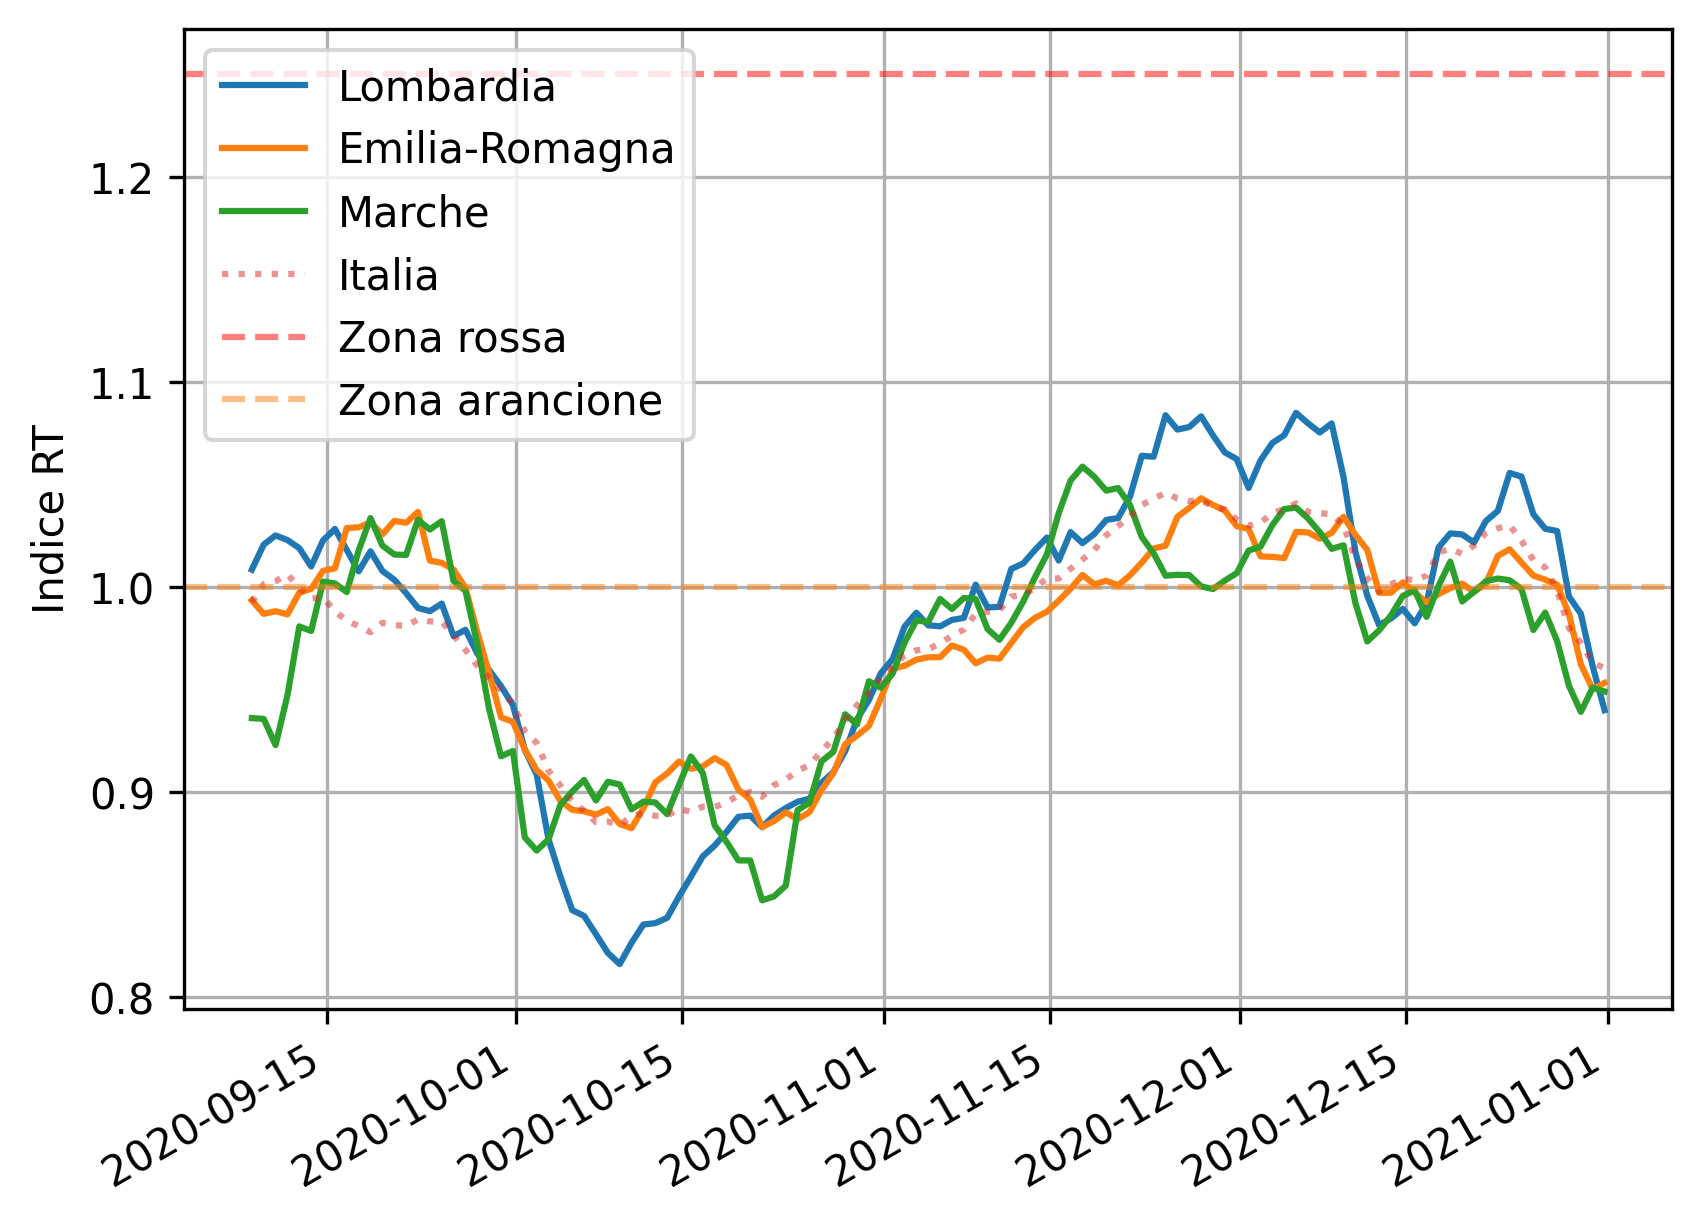
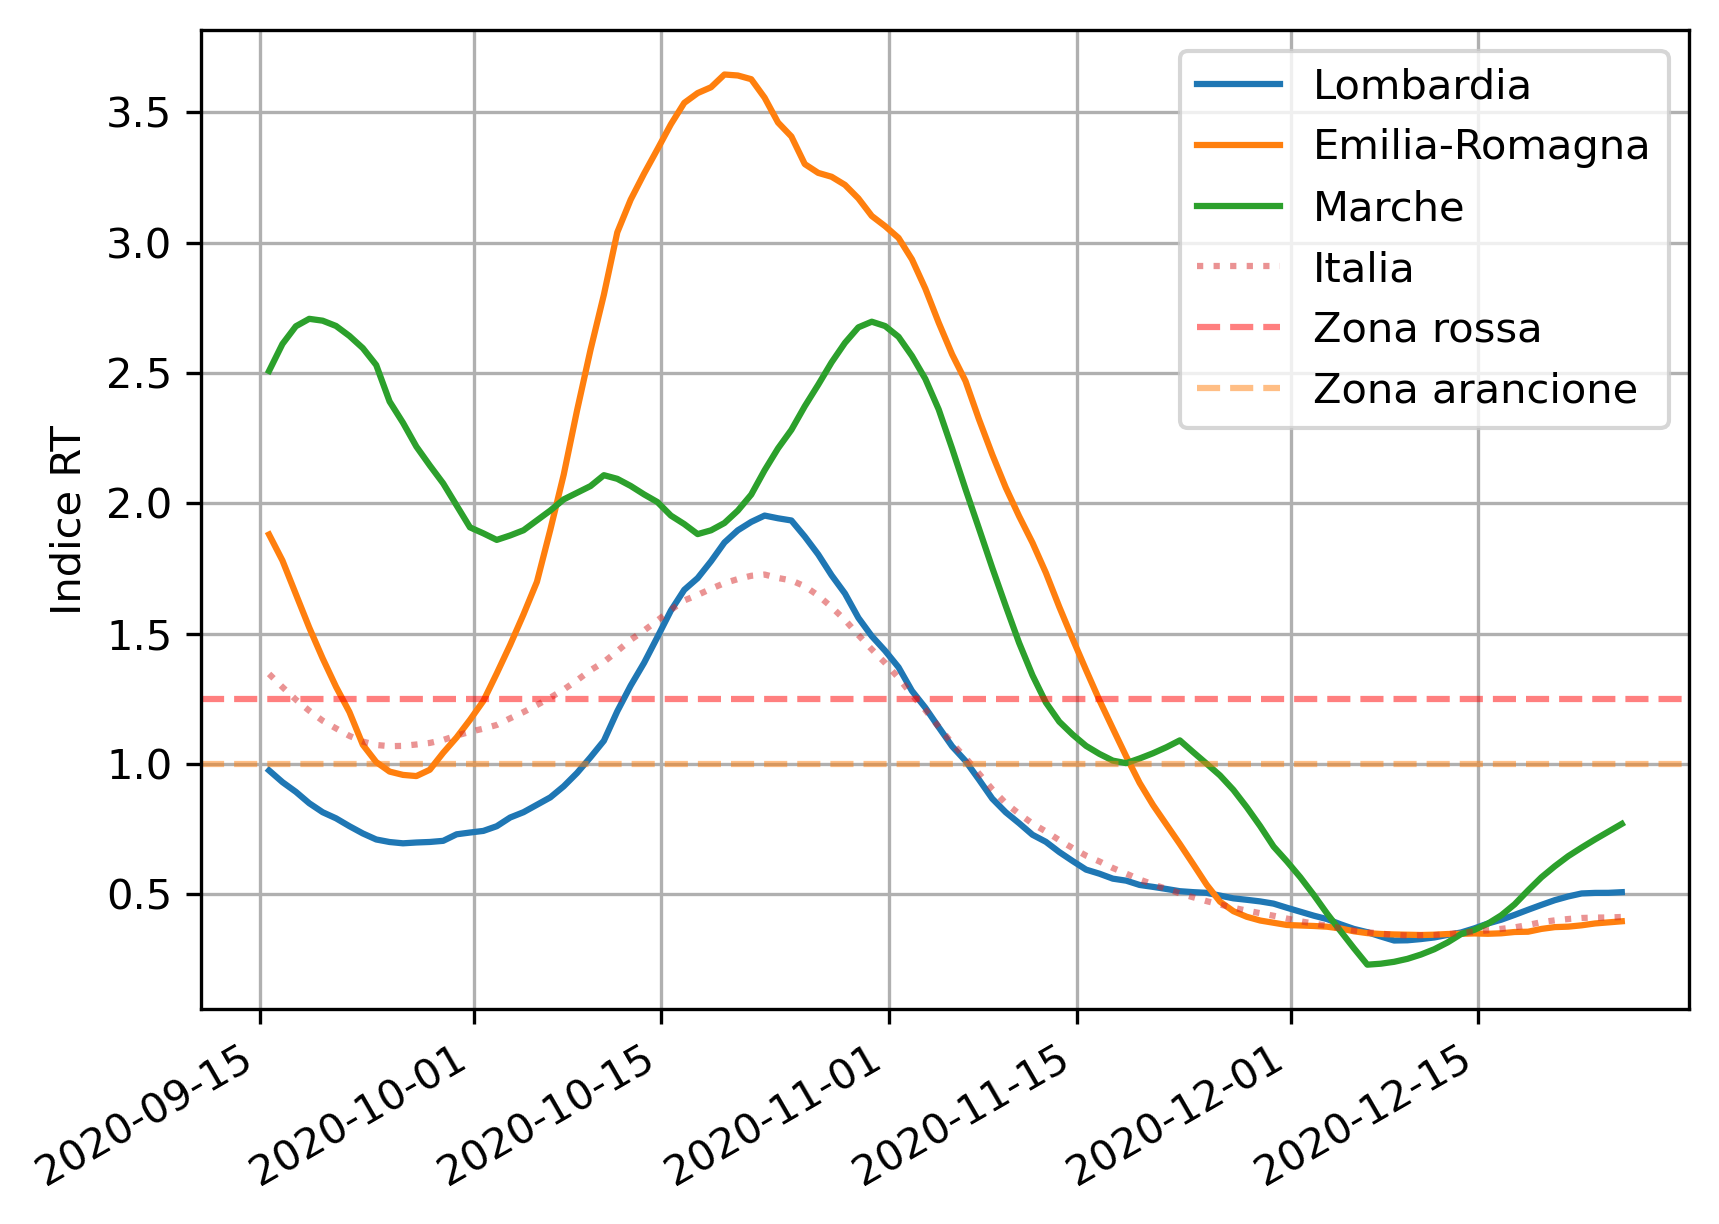
Corrected rt

diff --git a/utils.py b/utils.py
@@ -22,32 +22,32 @@ def compute_x_days_mov_average(array, window=7):
     return np.concatenate((left_padding, column_ma, right_padding))
 
 
-def compute_rt(new_positives_array_raw):
+def compute_rt(tot_cases, tot_healed, tot_death):
     """
-    Computes the rt index, with SIR method (simplified version of EpiEstim)
-    https://www.scienzainrete.it/articolo/modo-semplice-calcolare-rt/roberto-battiston/2020-11-20
+    Computes and plots RT for some regions of interest, with SIRD model applied as by INFN, with some modifications for
+    handling the shift between new positives and deaths-healings.
+    https://covid19.infn.it/banner/Approfondimenti.pdf    
     """
+    distanced_diff = lambda array, distance : array[distance:] - array[:-distance]
 
-    # Inverse healing time in days (avg)
-    gamma = 1/9 - 1
 
-    # compute the 7-days moving average for new positives, for a stable I(t)
-    new_positives_ma = compute_x_days_mov_average(new_positives_array_raw, 7)
+    delta_tot_positives = distanced_diff(np.log(tot_cases.to_numpy()), 7)
+    delta_tot_healed = distanced_diff(np.log(tot_healed.to_numpy()), 7)
+    delta_tot_death = distanced_diff(np.log(tot_death.to_numpy()), 7)
 
-    # compute ln(I(t))
-    column_log = np.log(new_positives_ma)
+    sh_delta_tot_positives = delta_tot_positives[:-8]
+    sh_delta_tot_healed = delta_tot_healed[8:]
+    sh_delta_tot_death = delta_tot_death[8:]
 
-    # compute(d ln(I(t)) dt)
-    column_log_diff = np.diff(column_log)
+    column_rt = sh_delta_tot_positives / (sh_delta_tot_healed + sh_delta_tot_death)
 
-    # add a NaN value before the array, as diff returns an array of dimension n-1
-    column_rt_padded = np.insert(column_log_diff, 0, float('NaN'))
+    # add a NaN value before the array, as diff returns an array of dimension n-7
+    left_padding = np.full(7, float('NaN'))
+    right_padding = np.full(8, float('NaN'))
 
-    # compute rt with SIR
-    column_rt = (column_rt_padded + gamma) / gamma
+    column_rt_padded = np.concatenate((left_padding, column_rt, right_padding))
 
-    # stabilize value
-    stable_rt = compute_x_days_mov_average(column_rt, 7)
+    stable_rt = compute_x_days_mov_average(column_rt_padded, 14)
 
     return stable_rt
 

diff --git a/provinces/analysis.py b/provinces/analysis.py
@@ -65,31 +65,3 @@ def compute_total_cases_per_provinces_abs(save_image=False, show=False):
         plt.show()
 
     plt.close()
-
-
-def compute_rt_per_provinces(save_image=False, show=False):
-    """
-    Computes and plots rt for Marche provinces
-    """
-
-    for province_name, province_data in provinces_of_marche_data.items():
-        plt.plot(province_data['data'], province_data['rt'], label=province_name)
-
-    plt.plot(nation_data['data'], nation_data['rt'], alpha=0.5, linestyle=':', label="Italia")
-    plt.plot(marche_data['data'], marche_data['rt'], alpha=0.5, linestyle=':', label="Marche")
-
-    plt.axhline(y=1.25, color='r', linestyle='--', alpha=0.5, label="Zona rossa")
-    plt.axhline(y=1, color='tab:orange', linestyle='--', alpha=0.5, label="Zona arancione")
-
-    plt.gcf().autofmt_xdate()
-    plt.grid(True)
-    plt.ylabel('Indice RT')
-    plt.legend()
-
-    if save_image:
-        plt.savefig('./docs/rt_per_province_marche.png', dpi=300, transparent=True, bbox_inches='tight')
-
-    if show:
-        plt.show()
-
-    plt.close()

diff --git a/provinces/data_extractor.py b/provinces/data_extractor.py
@@ -59,9 +59,6 @@ def extract_single_province_data(province):
 
     province_df['incr_casi_per_100000_ab'] = utils.scale_per_x_inhabitants(province_df['incremento_casi'],
                                                                            population[province])
-
-    # The provincial value is too unstable to compute rt with raw values
-    province_df['rt'] = utils.compute_rt(utils.compute_x_days_mov_average(province_df['incremento_casi'], 14))
     return province_df
 
 

diff --git a/national/data_extractor.py b/national/data_extractor.py
@@ -66,7 +66,7 @@ def extract_nation_data(path='./GvtOpenData/dati-andamento-nazionale'):
     national_df['incr_morti_per_100000_ab'] = utils.scale_per_x_inhabitants(national_df['incremento_morti'], population)
 
     # compute rt
-    national_df['rt'] = utils.compute_rt(national_df['nuovi_positivi'])
+    national_df['rt'] = utils.compute_rt(national_df['totale_casi'], national_df['dimessi_guariti'], national_df['deceduti'])
 
     return national_df
 

diff --git a/regions/analysis.py b/regions/analysis.py
@@ -43,7 +43,8 @@ def compute_ti_occupation_per_regions(save_image=False, show=False):
 
 def compute_rt_per_regions(save_image=False, show=False):
     """
-    Computes and plots rt for some regions of interest.
+    Computes and plots RT for some regions of interest, with SIRD model applied as by INFN.
+    https://covid19.infn.it/banner/Approfondimenti.pdf
     """
 
     for region_name, region_data in benchmark_regions_data.items():

diff --git a/regions/data_extractor.py b/regions/data_extractor.py
@@ -68,7 +68,7 @@ def extract_single_region_data(region):
     region_df['incr_morti_per_100000_ab'] = utils.scale_per_x_inhabitants(region_df['incremento_morti'], population[region])
 
     # compute rt
-    region_df['rt'] = utils.compute_rt(region_df['nuovi_positivi'])
+    region_df['rt'] = utils.compute_rt(region_df['totale_casi'], region_df['dimessi_guariti'], region_df['deceduti'])
 
     return region_df
 

diff --git a/charts_generation.py b/charts_generation.py
@@ -18,4 +18,3 @@ regions_analysis.compute_death(save_image=True, show=False)
 regions_analysis.compute_region_parameters(save_image=True, show=False)
 provinces_analysis.compute_total_cases_per_provinces(save_image=True, show=False)
 provinces_analysis.compute_total_cases_per_provinces_abs(save_image=True, show=False)
-provinces_analysis.compute_rt_per_provinces(save_image=True, show=False)

diff --git a/test_charts_generation.py b/test_charts_generation.py
@@ -27,4 +27,3 @@ def test_regions_chart_generation():
 def test_provinces_chart_generation():
     provinces_analysis.compute_total_cases_per_provinces()
     provinces_analysis.compute_total_cases_per_provinces_abs()
-    provinces_analysis.compute_rt_per_provinces()

diff --git a/index.md b/index.md
@@ -20,7 +20,9 @@ I grafici seguenti raffrontano vari parametri a livello regionale, in particolar
 
 ![RT per regioni](./docs/rt_per_regioni.png)
 
-Il grafico mostra l'andamento dell'indice Rt per le regioni del benchmark, calcolato con modellazione SIR (un metodo semplificato, non quello utilizzato dall'ISS, ma indicativo). L'indice così calcolato tende ad essere impreciso, allontandosi dal valore 1, ma mostra chiaramente un valore maggiore o minore di 1 nel caso in cui i contagi siano in aumento o diminuzione.
+Il grafico mostra l'andamento dell'indice Rt per le regioni del benchmark, calcolato con modellazione SIRT (un metodo semplificato, non quello utilizzato dall'ISS, ma indicativo). L'algoritmo segue il procedimento [indicato dall'INFN](https://covid19.infn.it/banner/Approfondimenti.pdf), con una modifica aggiuntiva che permette di considerare lo scostamento temporale tra nuovi infetti e guariti-deceduti. L'indice pone in relazione gli l'aumento degli infetti con quello dei deceduti e guariti, considerando uno scostamento temporale di 9 giorni tra infetti e deceduti-guariti (che denota il tempo medio di guarigione/morte per COVID-19). 
+
+Per questo motivo, il metodo di calcolo porta l'indice ad essere "arretrato" di 9 giorni rispetto alla data odierna, pur essendo indicativo. In rosso e arancione sono riportate le soglie che portano, secondo l'ultimo DPCM, in zona arancione o rossa.
 
 
 ## Occupazione terapia intensiva per regioni
@@ -64,13 +66,6 @@ Il grafico raffronta differenti indicatori a livello regionale, in valori assolu
 - La linea gialla riporta il numero di pazienti in terapia intensiva, per ogni giorno; 
 - La linea verde riporta i nuovi positivi riportati ogni giorno (in media mobile di 7 giorni, per mitigare la stagionalità settimanale);
 - La linea rossa riporta i ricoverati con sintomi, per ogni giorno.
-
-## Rt per provincia delle Marche
-
-![RT per regioni](./docs/rt_per_province_marche.png)
-
-Il grafico mostra l'andamento dell'indice Rt per le province delle Marche, calcolato con modellazione SIR (un metodo semplificato, non quello utilizzato dall'ISS, ma indicativo). L'indice così calcolato tende ad essere impreciso, allontandosi dal valore 1, ma mostra chiaramente un valore maggiore o minore di 1 nel caso in cui i contagi siano in aumento o diminuzione.
-
 
 ## Nuovi positivi per provincia delle Marche, per 100.000 abitanti
 
